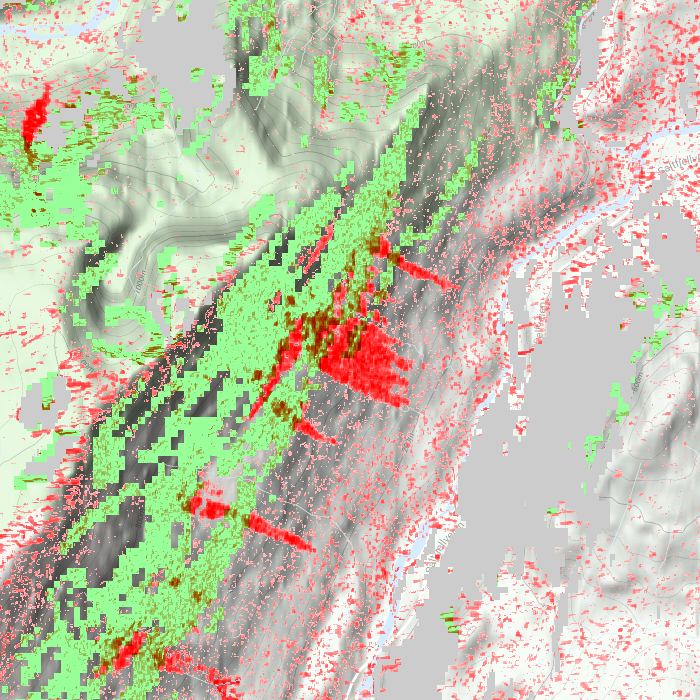
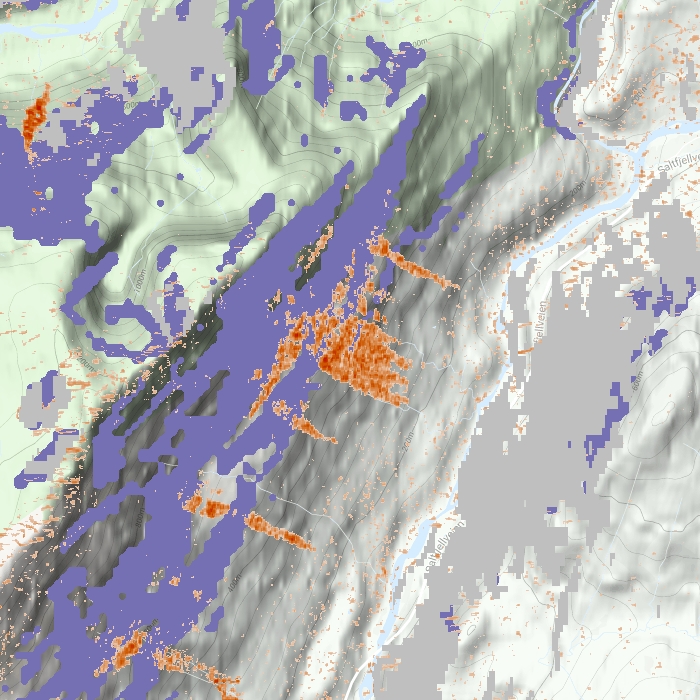
Change of colors

diff --git a/server/sentinel/generate_.js b/server/sentinel/generate_.js
@@ -389,16 +389,17 @@ function SentinelGenerate(SETTINGS) {
                                    .pow(2));
     shadow = shadow.neq(1).multiply(SETTINGS.OPACITY);
     
-    var bg = ee.Image(1);
+    var bg = ee.Image(0.95);
     if (SETTINGS.SEAMASK) {
       bg = bg.mask(terrain.neq(0));
     }
     
-    var blue  = bg.subtract(delta).subtract(shadow);
-    var red   = bg.subtract(shadow);
-    var green = bg.subtract(delta).subtract(shadow);
+    // Get Colorbrewers recommended color #d95f02
+    var red   = bg.subtract(delta.multiply(38/255)).subtract(shadow);
+    var green = bg.subtract(delta.multiply(160/255)).subtract(shadow);
+    var blue  = bg.subtract(delta.multiply(253/255)).subtract(shadow);
 
-    var mask = red.lt(0.99).or(blue.lt(0.79));
+    var mask = red.lt(0.81).or(blue.lt(0.74));
     return ee.Image.rgb(red, green, blue).mask(mask);
   }
 }

diff --git a/server/sentinel.js b/server/sentinel.js
@@ -29,7 +29,7 @@ function Sentinel(SETTINGS) {
     slopeCache.search('slopes', false, (map) => {
       callback(map);
     }, (cacheback) => {
-      sentinelGenerate.getSlopes().getMap({palette: '#99ff99'}, (slopes) => {
+      sentinelGenerate.getSlopes().getMap({palette: '#7570b3'}, (slopes) => {
         cacheback({'mapid': slopes.mapid, 'token': slopes.token});
       });
     })

diff --git a/md/help.md b/md/help.md
@@ -6,13 +6,13 @@ Avanor is an avalanche observation tool. It uses [Sentinel&#8209;1](https://sent
 
 ![Avalanche](/static/media/help/avalanche.png)
 
-### <svg viewBox="-1 -1 2 2"><circle r="1" fill="#ff0909"/></svg> Detected changes and avalanches
+### <svg viewBox="-1 -1 2 2"><circle r="1" fill="#d95f02"/></svg> Detected changes and avalanches
 
-All Avanor images have a timespan of 6&nbsp;or&nbsp;12 days. The changes are shown in red on the map, and while there will be some noise (weak red spots scattered over the map), detected avalanches are easily recognized as red stripes or areas. Due to the large temporal resolution the same avalanche may end up on multiple days worth of images. To more exactly get the date of an avalanche one can step back one day at a time and find the first image that shows that specific avalanche.
+All Avanor images have a timespan of 6&nbsp;or&nbsp;12 days. The changes are shown in orange on the map, and while there will be some noise (weak orange spots scattered over the map), detected avalanches are easily recognized as orange stripes or areas. Due to the large temporal resolution the same avalanche may end up on multiple days worth of images. To more exactly get the date of an avalanche one can step back one day at a time and find the first image that shows that specific avalanche.
 
-### <svg viewBox="-1 -1 2 2"><circle r="1" fill="#99ff99"/></svg> Avalanche terrain
+### <svg viewBox="-1 -1 2 2"><circle r="1" fill="#7570b3"/></svg> Avalanche terrain
 
-Most avalanches start in terrain that is between 30&#8209;40°. These areas are marked in green on the map.
+Most avalanches start in terrain that is between 30&#8209;40°. These areas are marked in purple on the map.
 
 ### <svg viewBox="-1 -1 2 2"><circle r="1" fill="#cccccc"/></svg> Radio shadow
 
